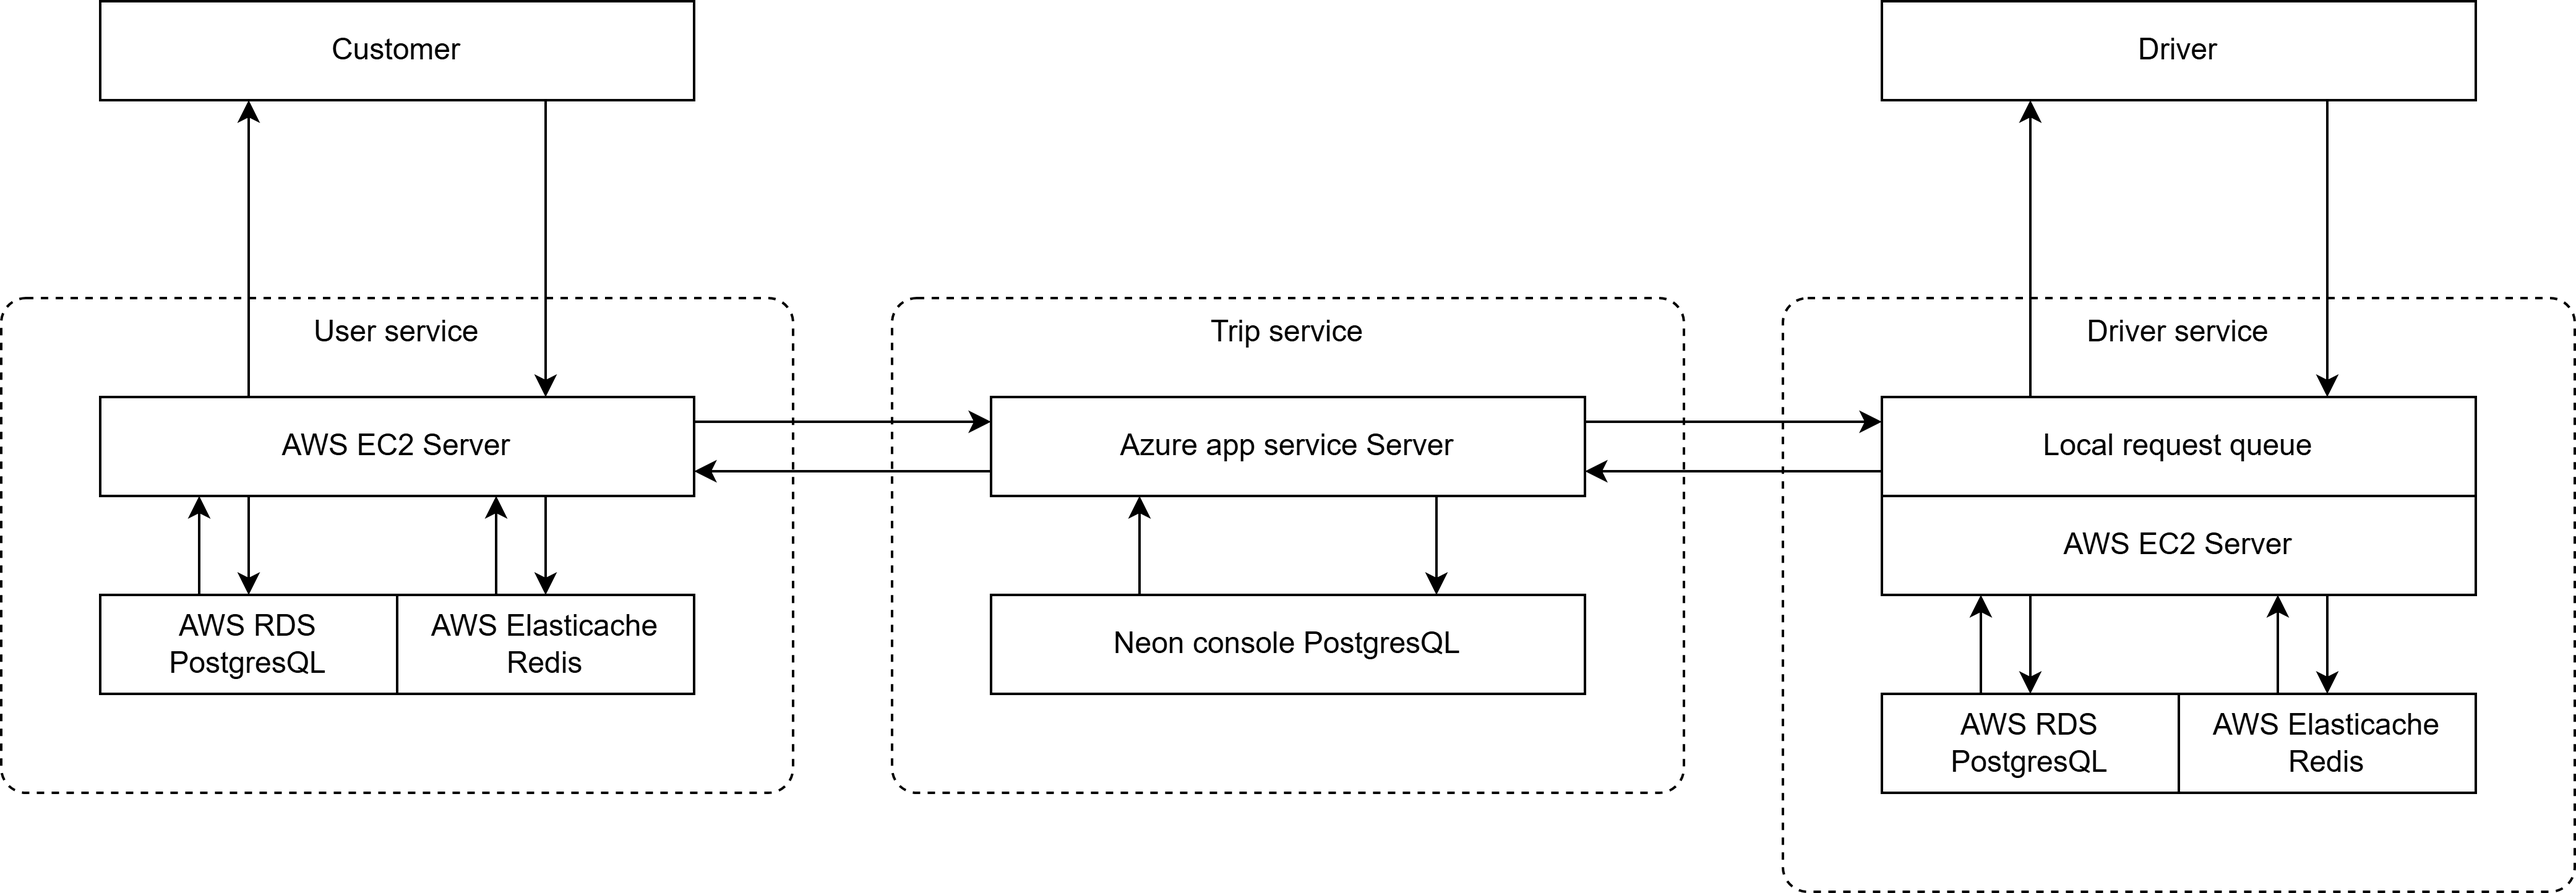
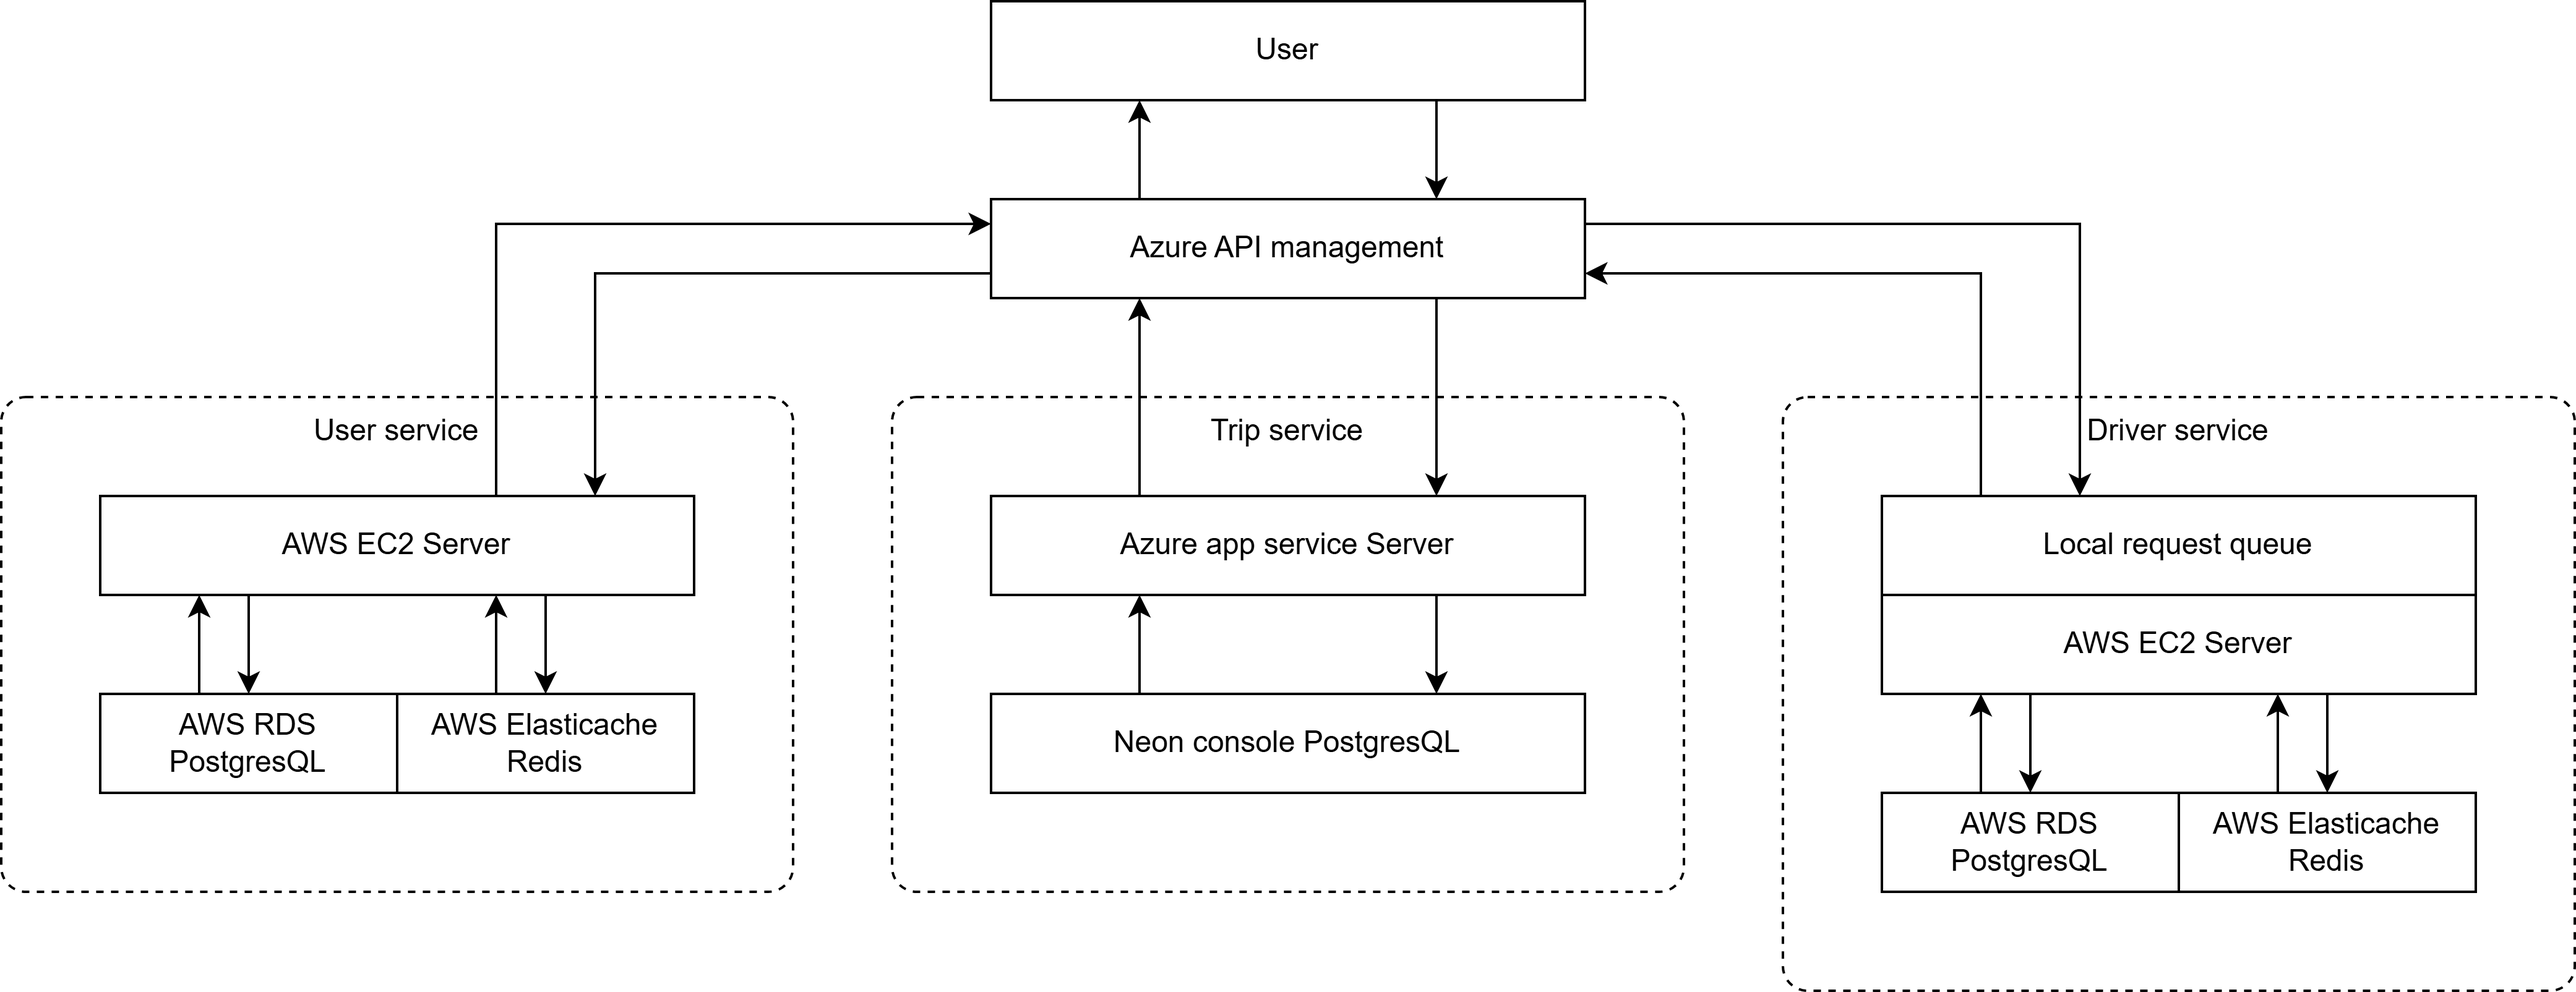
docs: update architecture model
doc

diff --git a/DriverService/server/tests/stress/test.js b/DriverService/server/tests/stress/test.js
@@ -1,40 +1,166 @@
-import http from "k6/http";
-import { check, sleep } from "k6";
+import http from 'k6/http';
+import { check, sleep } from 'k6';
 
-const url = "http://ec2-54-252-166-150.ap-southeast-2.compute.amazonaws.com/api/drivers/me/start";
-const body = JSON.stringify({ id: 12 });
-const params = { headers: { "Content-Type": "application/json" } };
-
-// k6 options
+// ------------------ CONFIG ------------------
 export const options = {
-	scenarios: {
-		stress_test: {
-			executor: "shared-iterations",
-			vus: 500,          // 500 concurrent virtual users
-			iterations: 100000, // total requests
-		},
-	},
+	// Stages: adjust targets/durations to scale load up/down
+	stages: [
+		{ duration: '30s', target: 500 },   // ramp-up
+		{ duration: '2m', target: 2000 },  // sustain heavy load
+		{ duration: '30s', target: 4000 },  // spike to very heavy load
+		{ duration: '2m', target: 2000 },  // sustain
+		{ duration: '30s', target: 0 },     // ramp-down
+	],
+	// Thresholds: fail the test if too many errors or high p95
 	thresholds: {
-		http_req_failed: ["rate<0.01"], // fail if more than 1% requests fail
-		checks: ["rate>0.99"],          // fail if less than 99% checks succeed
-		http_req_duration: ["p(95)<5"], // 95% of requests should finish < 5s
+		http_req_failed: ['rate<0.05'],      // allow up to 5% fails (can tighten)
+		http_req_duration: ['p(95)<3000'],  // 95% < 3s (adjust to your SLA)
 	},
+	// Optional: increase maxRedirects, etc.
+	noConnectionReuse: false,
+	throw: true,
 };
 
-// Main function
+// ------------------ ENDPOINTS ------------------
+const BASE = 'http://ec2-54-252-166-150.ap-southeast-2.compute.amazonaws.com';
+
+// Endpoints
+const SIGN_UP = `${BASE}/api/drivers/sign-up`;
+const SIGN_IN = `${BASE}/api/drivers/sign-in`;
+const START = `${BASE}/api/drivers/me/start`;
+const UPDATE_POS = `${BASE}/trpc/drivers.updatePosition`;
+const GET_POS = (id) => `${BASE}/api/drivers/${id}/position`;
+
+// ------------------ PER-VU STATE ------------------
+// These variables live per VU (declared outside default but mutated inside).
+let authToken = null;
+let driverId = null;
+let baseLat = null;
+let baseLong = null;
+
+// Utility: build a unique username per VU to avoid collisions
+function uniqueUsername() {
+	// __VU is the virtual user id assigned by k6
+	// include timestamp to reduce collision across repeated runs
+	return `load_user_${__VU}_${Date.now() % 100000}`;
+}
+
+// Utility: safe JSON parse
+function tryParse(body) {
+	try {
+		return JSON.parse(body);
+	} catch (err) {
+		return null;
+	}
+}
+
+// Utility: small random walk around base coords
+function jitter(val, meters = 0.0001) {
+	return val + (Math.random() - 0.5) * meters;
+}
+
+// ------------------ DEFAULT SCENARIO ------------------
 export default function () {
-	const res = http.put(url, body, params);
+	// 1) Sign up (once per VU)
+	if (!authToken) {
+		const username = uniqueUsername();
+		const signupPayload = JSON.stringify({
+			name: `load-${username}`,
+			licensePlate: `${Math.floor(Math.random() * 100000)}`,
+			username: username,
+			password: 'testpass',
+		});
 
-	// Safe check
-	const success = check(res, {
-		"driver state was READY": (r) => r.body && r.body.includes("state")
-	});
+		const signupRes = http.post(SIGN_UP, signupPayload, {
+			headers: { 'Content-Type': 'application/json' },
+			tags: { endpoint: 'sign-up' },
+		});
 
-	// Log failed responses for debugging
-	if (!success) {
-		console.error(`Failed response: status=${res.status} body=${res.body}`);
+		check(signupRes, {
+			'sign-up status 200': (r) => r.status === 200,
+			'sign-up returned JSON': (r) => tryParse(r.body) !== null,
+			'sign-up has token': (r) => {
+				const b = tryParse(r.body);
+				return b && b.data && b.data.token && b.data.driverId;
+			},
+		});
+
+		const parsed = tryParse(signupRes.body);
+		if (parsed && parsed.data) {
+			authToken = parsed.data.token;
+			driverId = parsed.data.driverId;
+		} else {
+			// if sign-up fails, stop further actions in this iteration
+			// (k6 will still continue other VUs)
+			sleep(1);
+			return;
+		}
+
+		// set a random starting position for this VU (per-driver)
+		baseLat = 10 + Math.random() * 5; // example area; adjust to your domain
+		baseLong = 106 + Math.random() * 5;
 	}
 
-	// Optional sleep to simulate realistic pacing
-	// sleep(0.01); 
+	// Prepare auth header
+	const headers = {
+		Authorization: `Bearer ${authToken}`,
+		'Content-Type': 'application/json',
+	};
+
+	// 2) PUT /me/start — driver goes READY (do once per VU, but harmless to repeat)
+	const startRes = http.put(START, null, { headers, tags: { endpoint: 'start' } });
+	check(startRes, {
+		'start status 200': (r) => r.status === 200,
+		'start returned JSON': (r) => tryParse(r.body) !== null,
+		'start has READY': (r) => {
+			const b = tryParse(r.body);
+			return b && b.data && (b.data.state === 'READY' || b.data.state === 'ONLINE' || b.data.state === 'OK');
+		},
+	});
+
+	// small pause before updates begin
+	sleep(0.05 + Math.random() * 0.15);
+
+	// 3) Three updatePosition calls with slight movement between them
+	for (let i = 0; i < 3; i++) {
+		const payload = JSON.stringify({
+			id: driverId,
+			lat: jitter(baseLat, 0.0008),
+			long: jitter(baseLong, 0.0008),
+		});
+
+		const updRes = http.post(UPDATE_POS, payload, { headers, tags: { endpoint: 'updatePosition' } });
+
+		check(updRes, {
+			'update status 200': (r) => r.status === 200,
+			'update returned JSON': (r) => tryParse(r.body) !== null,
+			'update has lat/long': (r) => {
+				const b = tryParse(r.body);
+				return !!(b && b.result && b.result.data && b.result.data.lat && b.result.data.long);
+			},
+		});
+
+		// quick jitter between updates — drivers typically send frequent small updates
+		sleep(0.05 + Math.random() * 0.2);
+	}
+
+	// 4) GET /api/drivers/:id/position
+	const getRes = http.get(GET_POS(driverId), { headers, tags: { endpoint: 'getPosition' } });
+
+	check(getRes, {
+		'getpos status 200': (r) => r.status === 200,
+		'getpos returned JSON': (r) => tryParse(r.body) !== null,
+		'getpos contains coordinates': (r) => {
+			const b = tryParse(r.body);
+			// accept either { lat,long } or { result: { data: { lat,long }}} — be permissive
+			if (!b) return false;
+			if (b.lat && b.long) return true;
+			if (b.result && b.result.data && b.result.data.lat && b.result.data.long) return true;
+			if (b.data && b.data.lat && b.data.long) return true;
+			return false;
+		},
+	});
+
+	// Sleep before next iteration: controls per-VU RPS. Lower = more requests.
+	sleep(0.2 + Math.random() * 0.6);
 }

diff --git a/DriverService/server/src/scripts/check-db.ts b/DriverService/server/src/scripts/check-db.ts
@@ -1,7 +1,7 @@
 import { prisma } from "../composition-root";
 
 async function execute() {
-	console.log(await prisma.driver.findUnique({ where: { id: 5 } }));
+	console.log(await prisma.driver.count());
 	// console.log(
 	// 	await prisma.driver.update({
 	// 		where: { id: 5 },

diff --git a/docs/REPORT.md b/docs/REPORT.md
@@ -1,3 +1,9 @@
+# BÁO CÁO CUỐI KỲ UIT-GO
+## Các thành viên
+- 23520592 - Cao Thành Huy
+- 23520557 - Dương Quốc Hưng
+- 23520946 - Nguyễn Xuân Nhật Minh
+
 # Tổng quan kiến trúc hệ thống
 ![Detailed Architecture Diagram](module_detailed_architecture.png)
 
